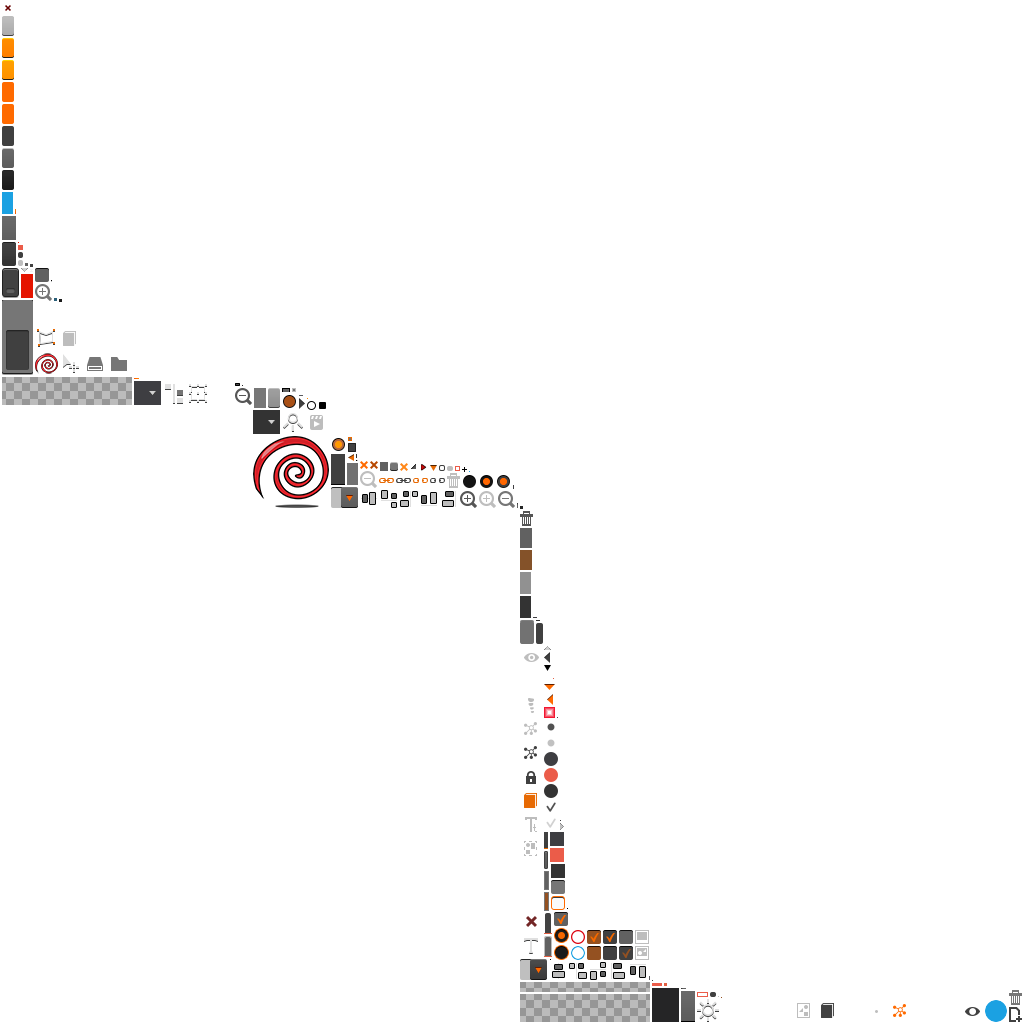
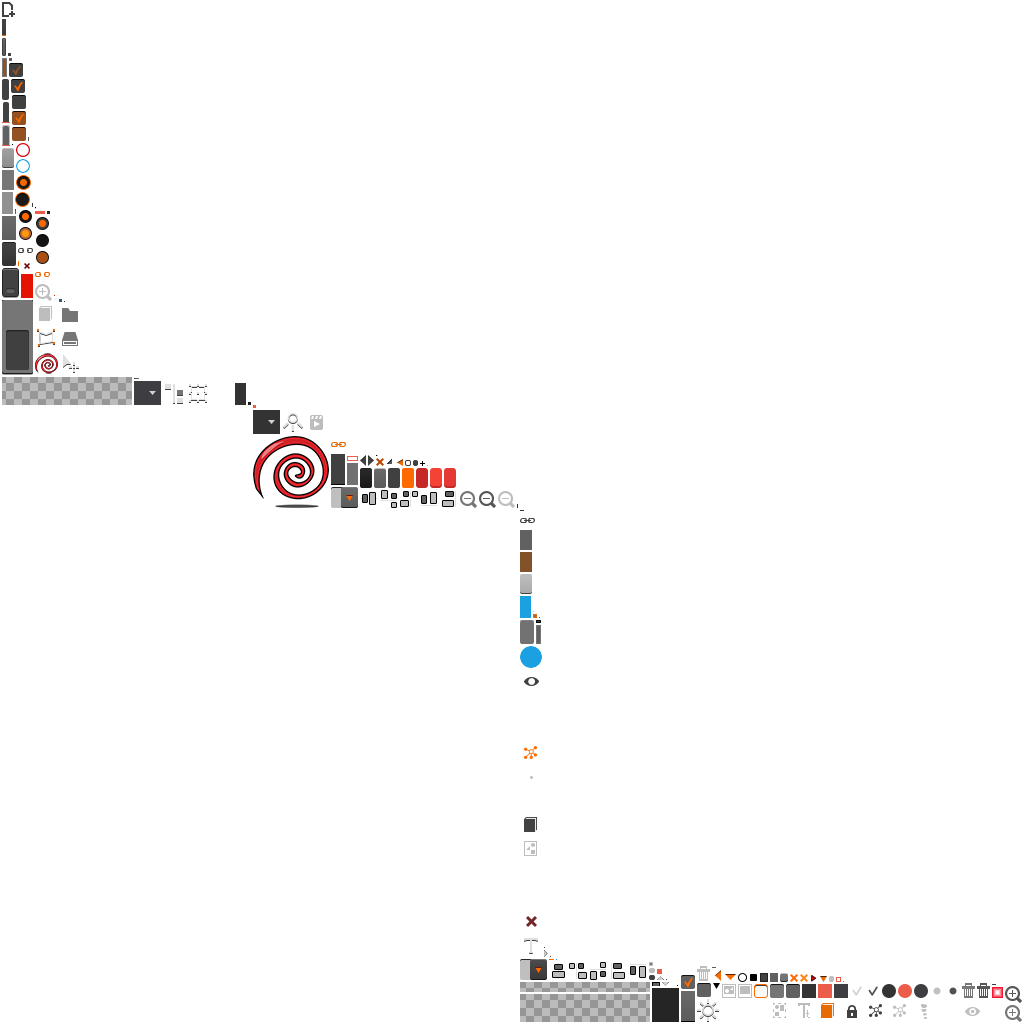
Remove all orange buttons! They are flat red now

diff --git a/src/main/java/games/rednblack/editor/view/ui/dialog/CreateNewResolutionDialog.java b/src/main/java/games/rednblack/editor/view/ui/dialog/CreateNewResolutionDialog.java
@@ -27,6 +27,7 @@ import com.kotcrab.vis.ui.widget.VisRadioButton;
 import com.kotcrab.vis.ui.widget.VisTable;
 import com.kotcrab.vis.ui.widget.VisTextButton;
 import com.kotcrab.vis.ui.widget.VisTextField;
+import games.rednblack.editor.utils.StandardWidgetsFactory;
 import games.rednblack.h2d.common.H2DDialog;
 import games.rednblack.editor.HyperLap2DFacade;
 import games.rednblack.editor.renderer.data.ResolutionEntryVO;
@@ -56,7 +57,7 @@ public class CreateNewResolutionDialog extends H2DDialog {
         mainTable.add("Resolution:").padRight(5).right().top();
         mainTable.add(getDimensionsTable()).left();
         mainTable.row().padTop(20);
-        VisTextButton createBtn = new VisTextButton("Create", "orange");
+        VisTextButton createBtn = StandardWidgetsFactory.createTextButton("Create", "red");
         createBtn.addListener(new CrateButtonClickListener());
         getButtonsTable().add(createBtn).width(93).height(24).colspan(2);
         getContentTable().add(mainTable);

diff --git a/src/main/java/games/rednblack/editor/view/ui/box/UIResolutionBox.java b/src/main/java/games/rednblack/editor/view/ui/box/UIResolutionBox.java
@@ -85,7 +85,7 @@ public class UIResolutionBox extends UIBaseBox {
 
         add(deleteBtn).padRight(11).height(25);
 
-        VisTextButton repackBtn = StandardWidgetsFactory.createTextButton("Repack", "orange");
+        VisTextButton repackBtn = StandardWidgetsFactory.createTextButton("Repack", "red");
         repackBtn.addListener(new UIResolutionBoxButtonClickListener(REPACK_BTN_CLICKED));
         add(repackBtn).width(93);
     }

diff --git a/src/main/java/games/rednblack/editor/view/ui/dialog/NewProjectDialog.java b/src/main/java/games/rednblack/editor/view/ui/dialog/NewProjectDialog.java
@@ -77,7 +77,7 @@ public class NewProjectDialog extends H2DDialog {
 
         getContentTable().add(mainTable);
 
-        VisTextButton createBtn = new VisTextButton("Create", "orange");
+        VisTextButton createBtn = StandardWidgetsFactory.createTextButton("Create", "red");
         createBtn.addListener(new BtnClickListener(CREATE_BTN_CLICKED));
         getButtonsTable().add(createBtn).width(93).height(25).colspan(2);
     }

diff --git a/src/main/java/games/rednblack/editor/view/ui/box/UILivePreviewBox.java b/src/main/java/games/rednblack/editor/view/ui/box/UILivePreviewBox.java
@@ -18,7 +18,7 @@ public class UILivePreviewBox extends UIBaseBox {
 	private void init() {
 		addSeparator(true).padRight(13).padLeft(13);
 
-		VisTextButton liveButton = StandardWidgetsFactory.createTextButton("Live Preview", "orange");
+		VisTextButton liveButton = StandardWidgetsFactory.createTextButton("Live Preview", "red");
 		add(liveButton).width(110);
 	}
 }
